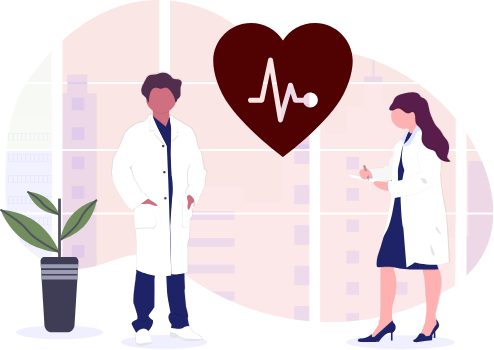
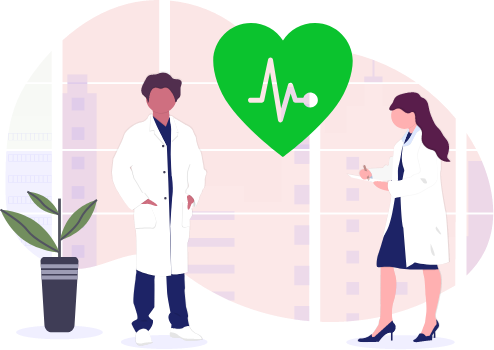
update header and vector images

Changed region(s): [[0.4251, 0.0571, 0.7287, 0.4571]]

diff --git a/src/components/Header/Vector.js b/src/components/Header/Vector.js
@@ -1,0 +1,32 @@
+import React from "react"
+import { useStaticQuery, graphql } from "gatsby"
+import Img from "gatsby-image"
+
+/*
+ * This component is built using `gatsby-image` to automatically serve optimized
+ * images with lazy loading and reduced file sizes. The image is loaded using a
+ * `useStaticQuery`, which allows us to load the image from directly within this
+ * component, rather than having to pass the image data down from pages.
+ *
+ * For more information, see the docs:
+ * - `gatsby-image`: https://gatsby.dev/gatsby-image
+ * - `useStaticQuery`: https://www.gatsbyjs.org/docs/use-static-query/
+ */
+
+const Image = () => {
+  const data = useStaticQuery(graphql`
+    query {
+      placeholderImage: file(relativePath: { eq: "vector.png" }) {
+        childImageSharp {
+          fluid(maxWidth: 300) {
+            ...GatsbyImageSharpFluid
+          }
+        }
+      }
+    }
+  `)
+
+  return <Img fluid={data.placeholderImage.childImageSharp.fluid} />
+}
+
+export default Image

diff --git a/src/components/Header/header.js b/src/components/Header/header.js
@@ -5,7 +5,7 @@ import { Link } from "gatsby"
 import Head from "../StyledComponents/header"
 import Input from "../StyledComponents/Input"
 import Country from "./searchResults"
-
+import Image from './Vector'
 const Header = props => {
   const [data, setData] = useState(null)
   const [inputText, setInputText] = useState("")
@@ -107,7 +107,7 @@ const Header = props => {
               C
               <span style={{ marginRight: 5, marginLeft: 5 }}>
                 <img
-                  src={require("../../images/virus.png")}
+                  src={require("../../images/logo.png")}
                   width={43}
                   style={{ marginBottom: 0 }}
                 />
@@ -184,8 +184,7 @@ const Header = props => {
             </div>
             <div>
               {" "}
-              <img
-                src={require("../../images/vector.png")}
+              <Image
                 width={43}
                 style={{ marginBottom: 0, width: "80%" }}
               />{" "}
